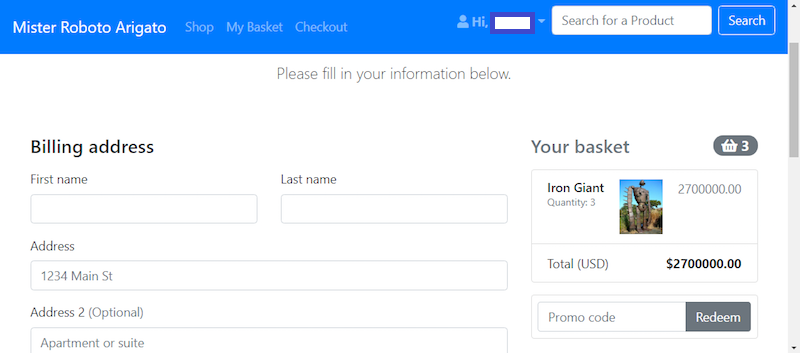
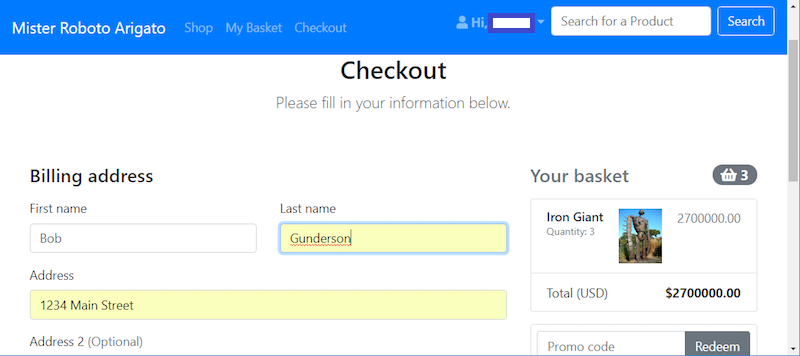
add pics and finish Walk Through Sprint 2

diff --git a/README.md b/README.md
@@ -168,11 +168,18 @@ money so far.  Let's delete the Ramen Vending Robot from our basket:
 
 This updated basket information persists to the checkout page.  Click on 
 "Checkout" and we can now see the updated basket and total, without the 
-Ramen Vending Robot:
+Ramen Vending Robot.  From the checkout page, users will need to put in their 
+shipping information:
 
 ![Checkout View](Screenshots/week2/checkOut.png)
 
-From the checkout page, users will need to put in their shipping information
+Click "Checkout".  The confirm page will show a summary of the order:
+
+![Confirm Page](Screenshots/week2/confirm.png)
+
+When a user is on this page, an email receipt is on its way to their inbox:
+
+![Recipt Email](Screenshots/week2/receiptEmail.png)
 
 ---
 ## Walk Through Sprint 1
